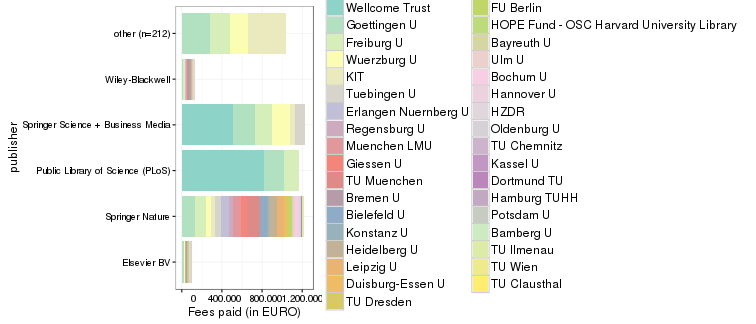
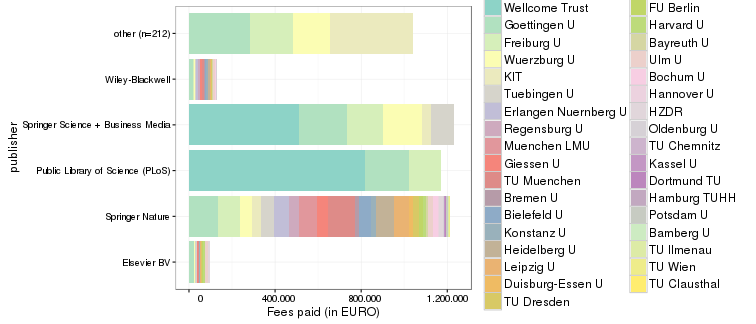
harvard post updated

Changed region(s): [[0.2434, 0.0, 0.9735, 0.9877]]

diff --git a/about.md b/about.md
@@ -112,8 +112,8 @@ View dataset on [GitHub](https://github.com/OpenAPC/openapc-de/blob/master/data/
 |Goettingen U                                |      650|           883,918|         1,360|  1,354|
 |Hamburg TUHH                                |       24|            32,789|         1,366|  1,466|
 |Hannover U                                  |       69|            90,259|         1,308|  1,241|
+|Harvard U                                   |       95|            83,793|           882|    830|
 |Heidelberg U                                |      215|           308,348|         1,434|  1,500|
-|HOPE Fund - OSC Harvard University Library  |       95|            83,793|           882|    830|
 |HZDR                                        |       32|            48,303|         1,509|  1,170|
 |INM - Leibniz-Institut für Neue Materialien |        5|             5,744|         1,149|  1,305|
 |Kassel U                                    |       35|            35,550|         1,016|  1,142|
